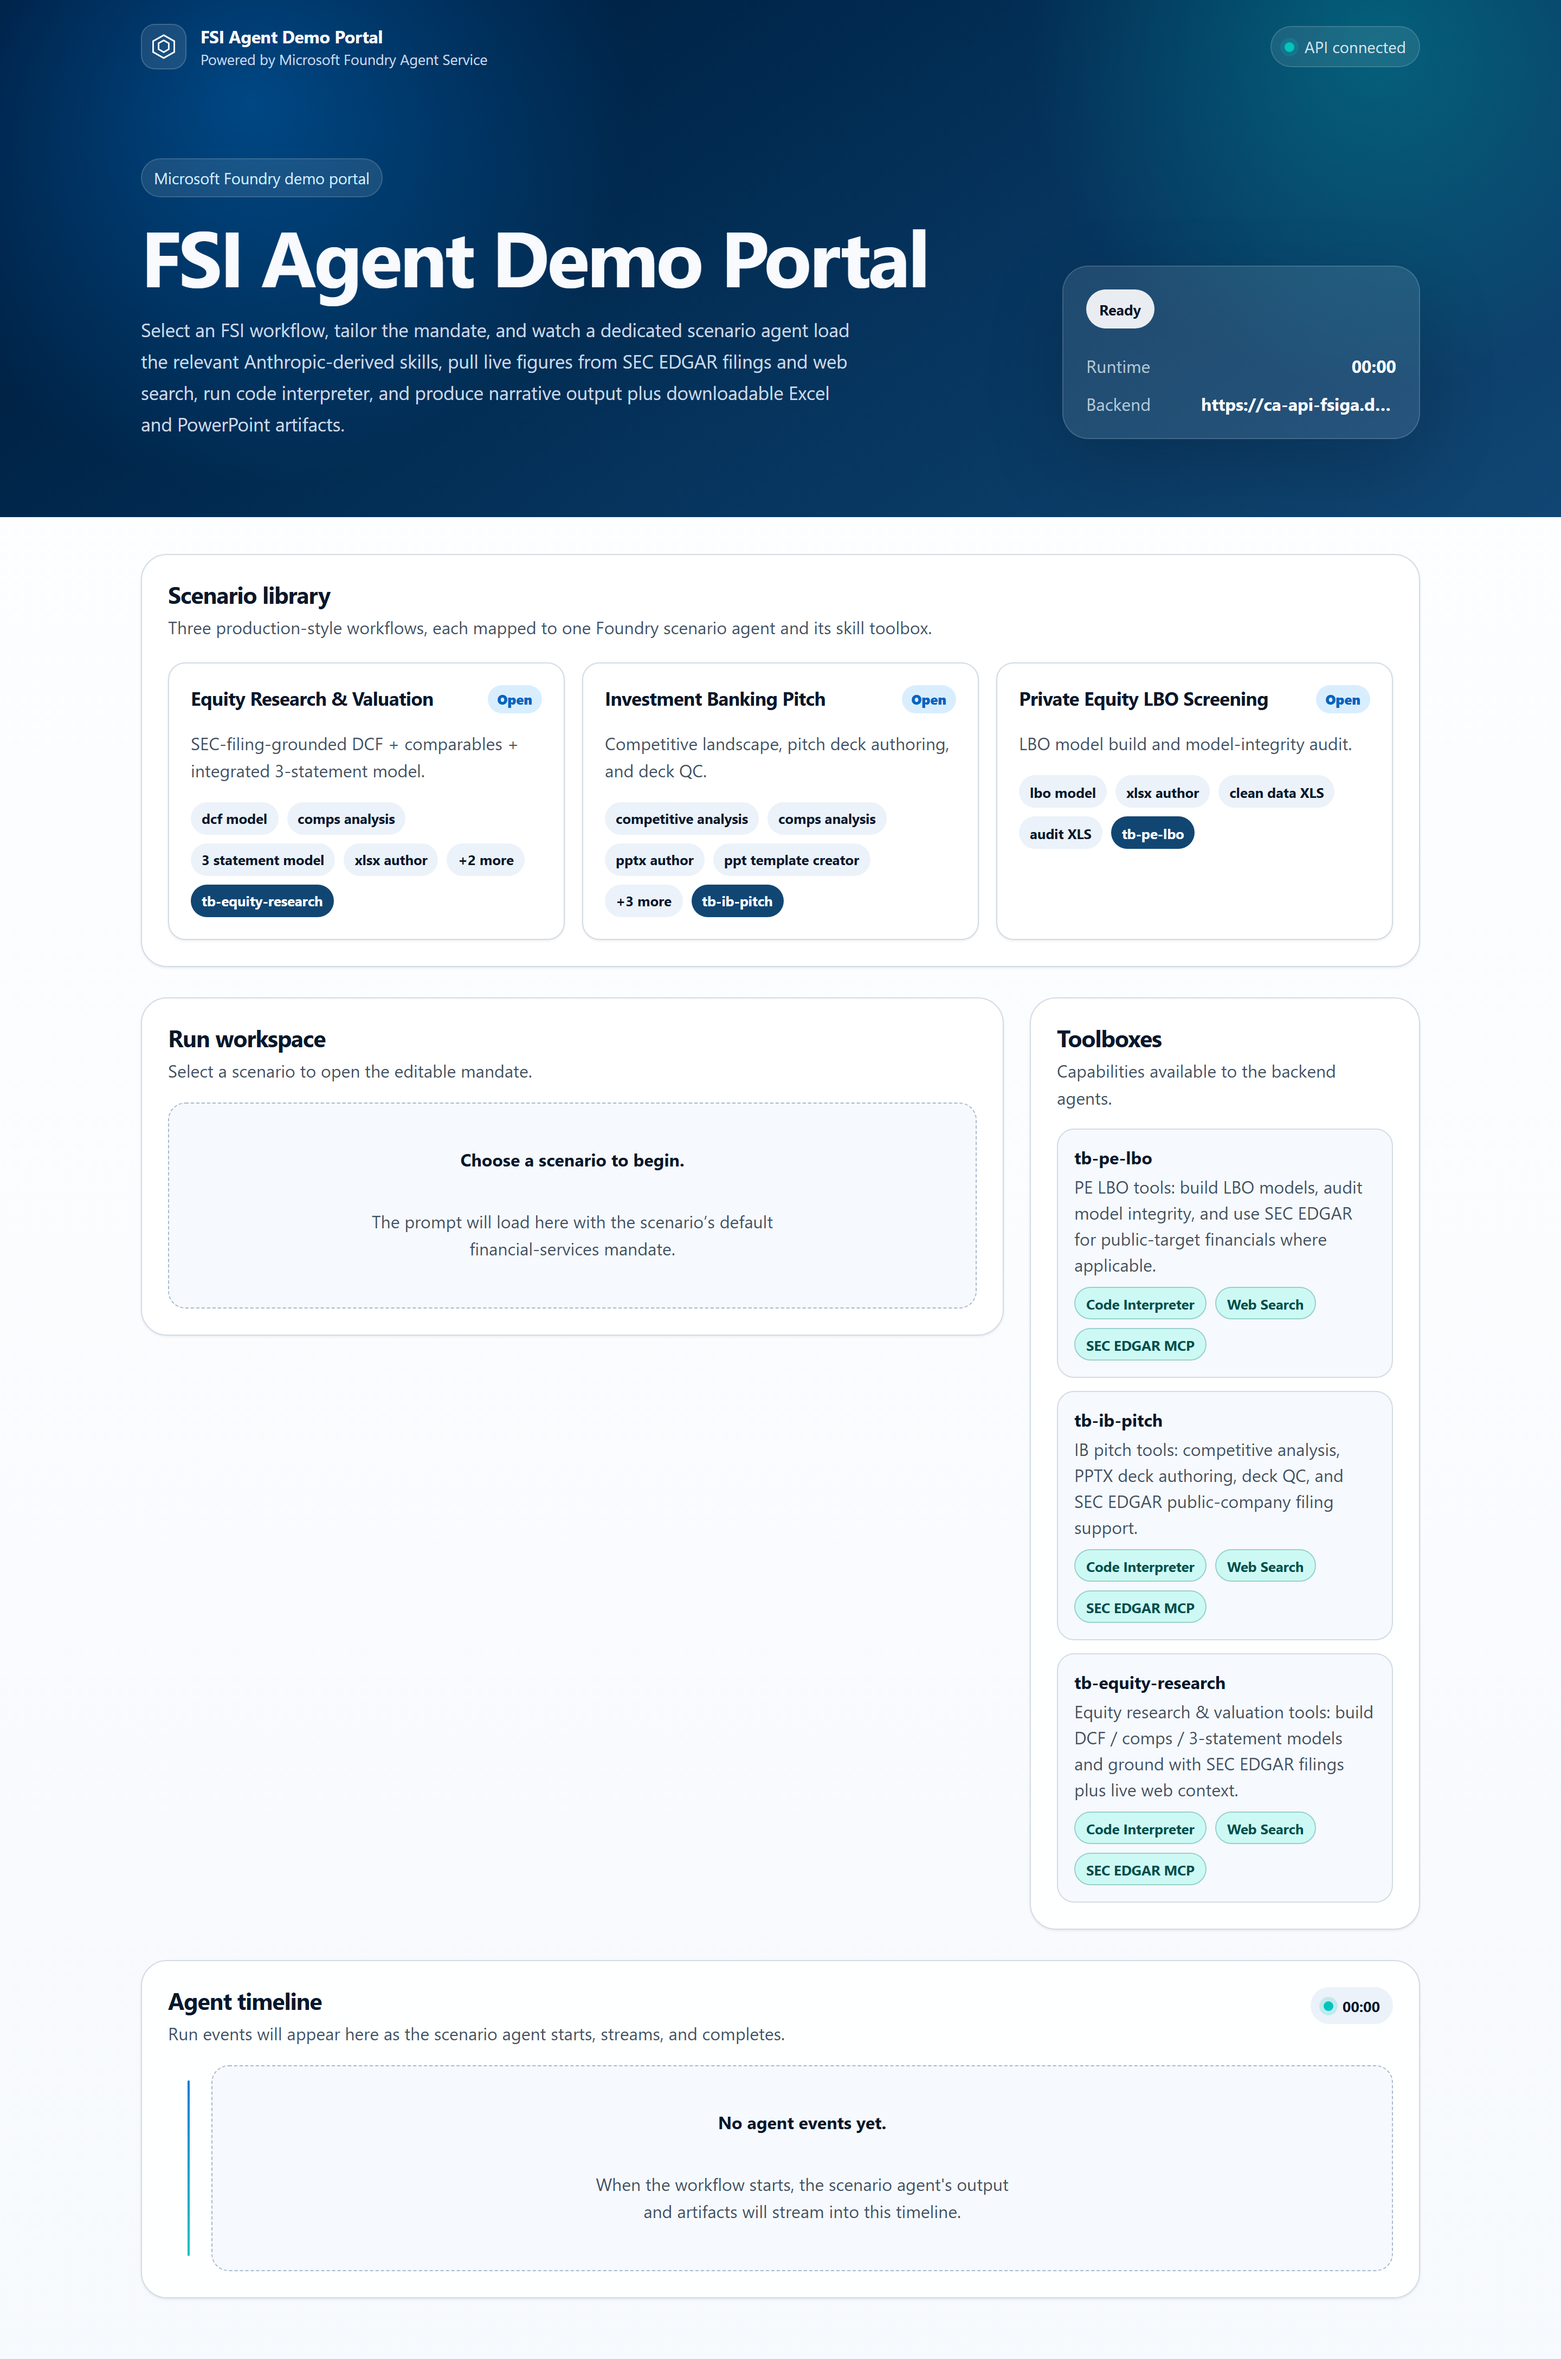
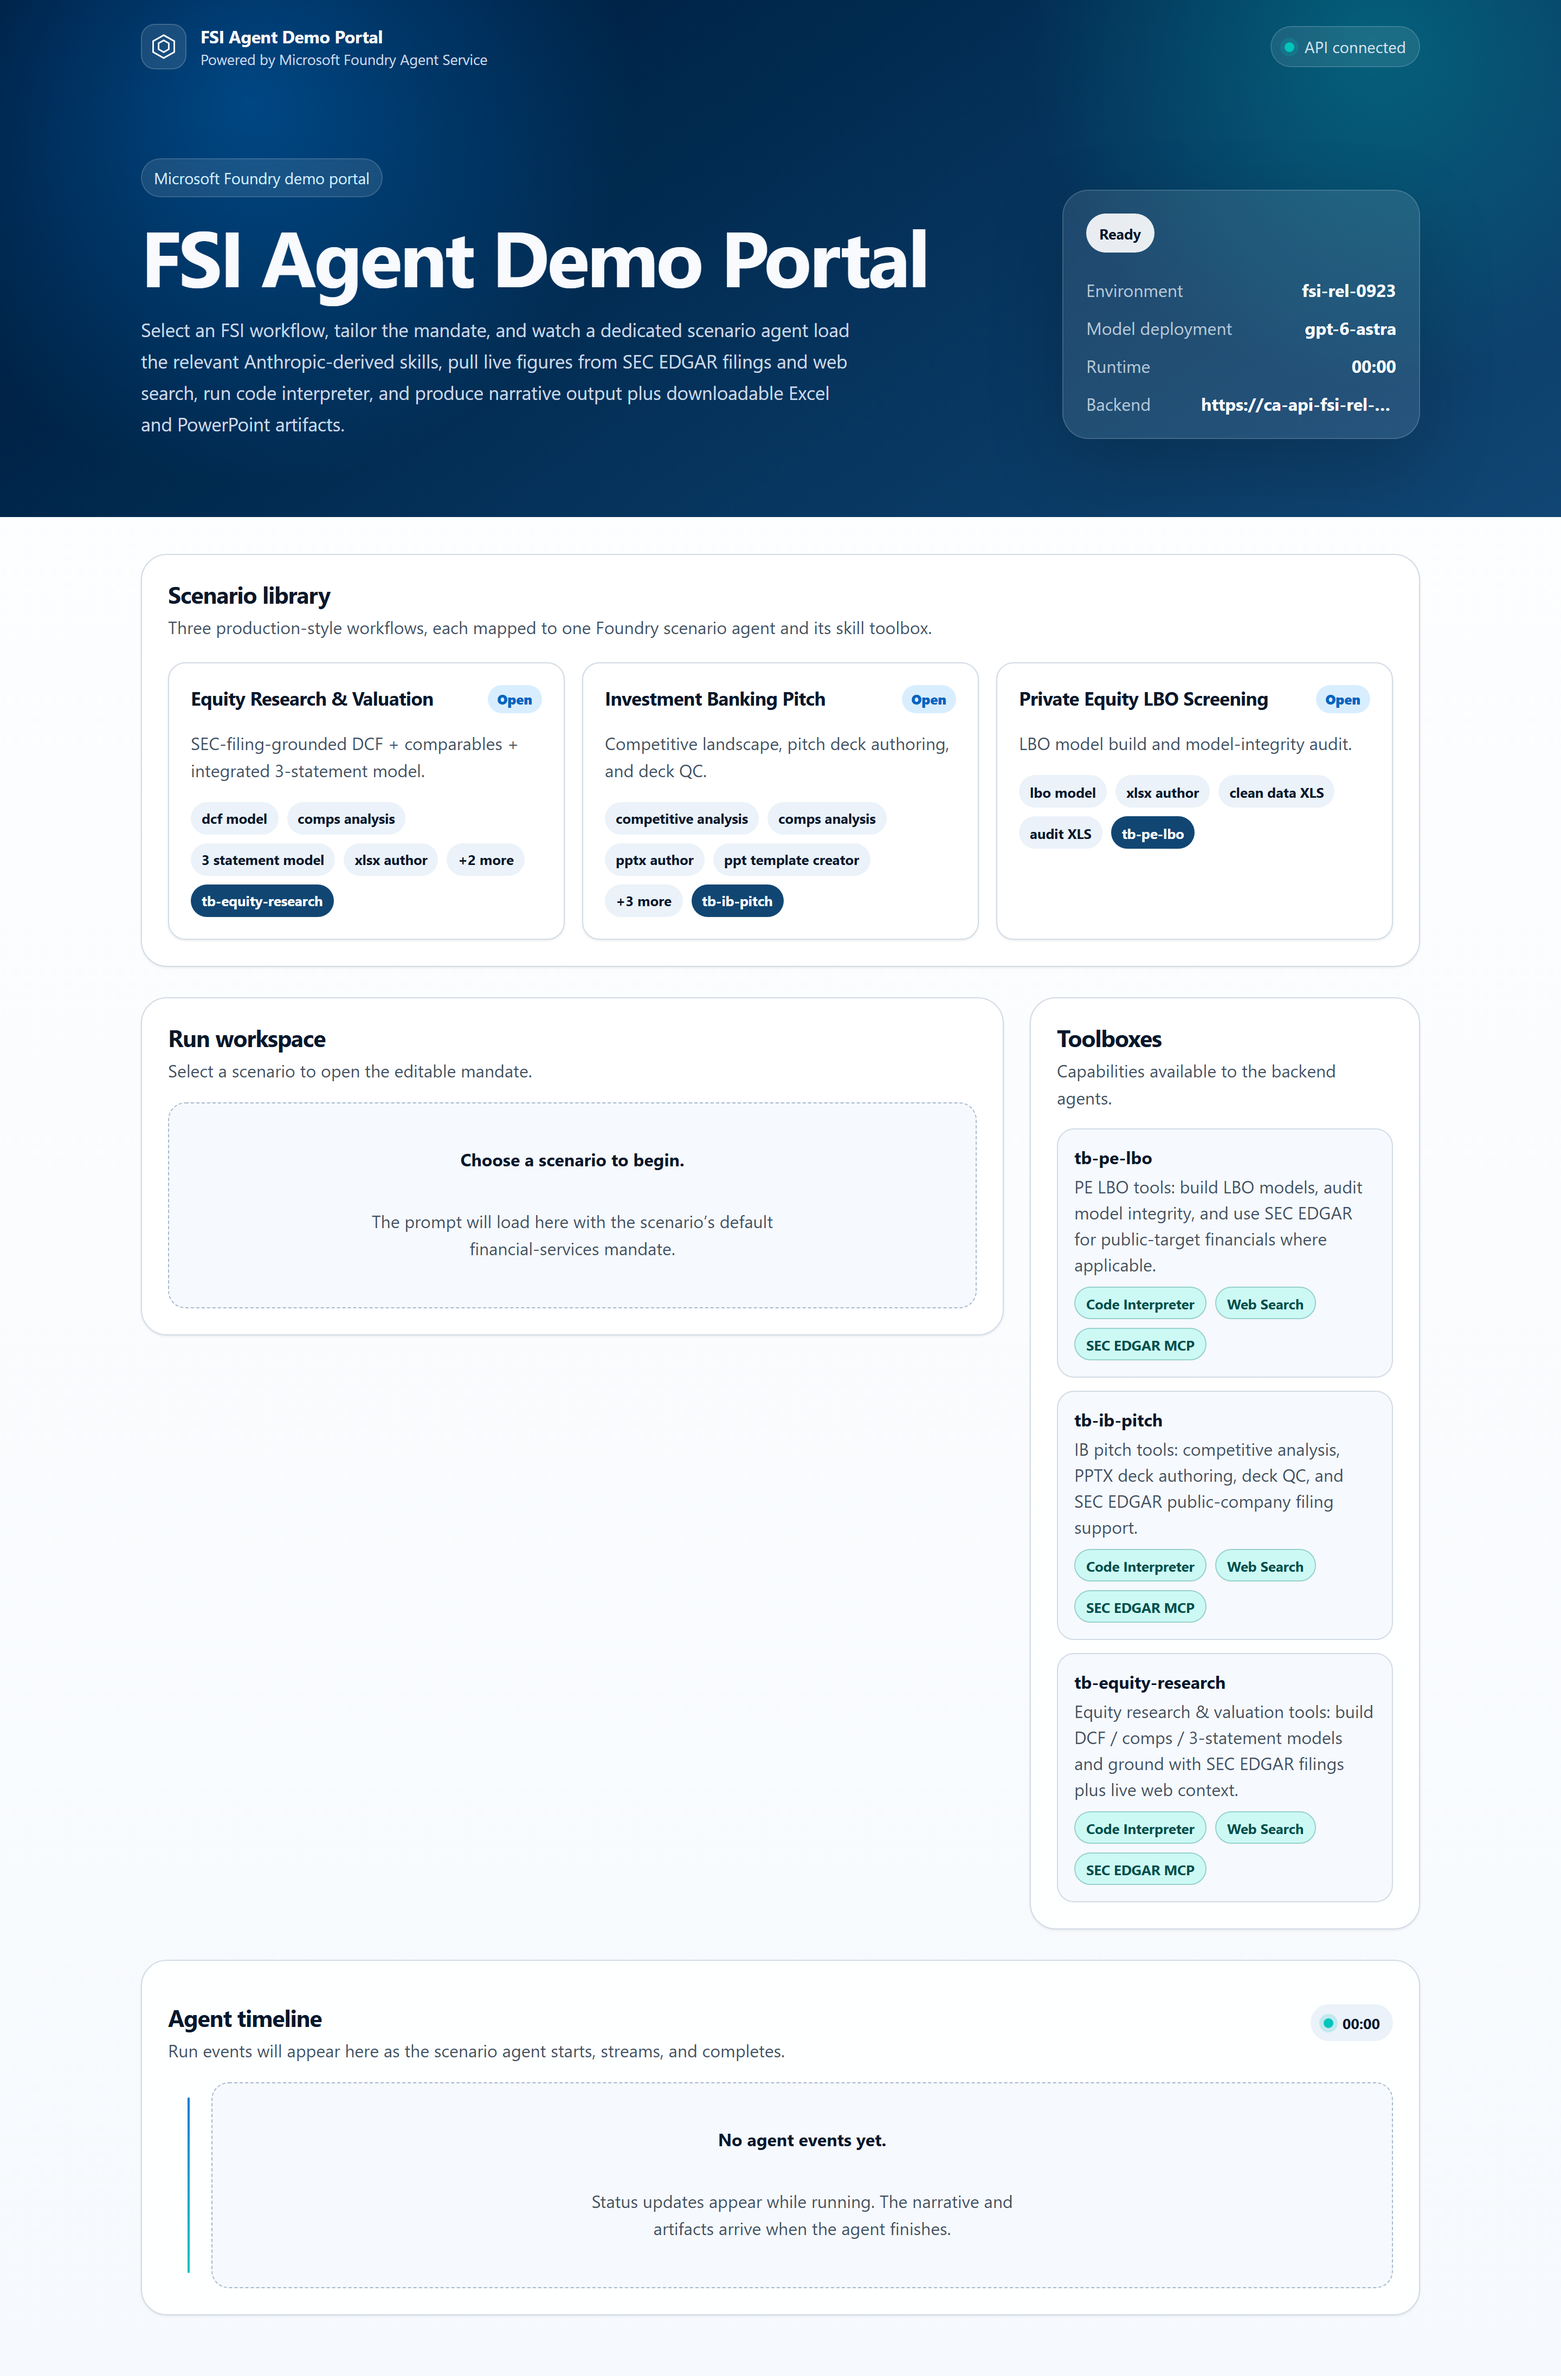
Refresh screenshots and record release validation
- Replace portal and artifact screenshots with captures from the clean-clone
  validation deployment, and add the PE LBO run.
- Capture: accept non-Office supporting files, require .pptx for IB pitch,
  fail if any request carries WebIQ data while the key is blank, and bind
  the Office renderer's arguments by name.
- Release notes and changelog: validation evidence, PowerShell 7 and
  RequestConflict notes, known limitations.
- Use a neutral fallback persona title in the hosted runtime.

diff --git a/agents/hosted/_azd/agent-src/fsi_hosted_agent.py b/agents/hosted/_azd/agent-src/fsi_hosted_agent.py
@@ -187,7 +187,7 @@ def _env_bool(name: str, default: bool = False) -> bool:
 
 
 def _system_prompt() -> str:
-    title = os.environ.get("FSI_SCENARIO_TITLE", "Financial Services Analyst")
+    title = os.environ.get("FSI_SCENARIO_TITLE", "Financial Services")
     brief = os.environ.get(
         "FSI_SCENARIO_BRIEF",
         "Produce traceable financial-analysis drafts with explicit source and modeling limitations.",

diff --git a/agents/hosted/fsi_hosted_agent.py b/agents/hosted/fsi_hosted_agent.py
@@ -187,7 +187,7 @@ def _env_bool(name: str, default: bool = False) -> bool:
 
 
 def _system_prompt() -> str:
-    title = os.environ.get("FSI_SCENARIO_TITLE", "Financial Services Analyst")
+    title = os.environ.get("FSI_SCENARIO_TITLE", "Financial Services")
     brief = os.environ.get(
         "FSI_SCENARIO_BRIEF",
         "Produce traceable financial-analysis drafts with explicit source and modeling limitations.",

diff --git a/docs/release-notes/v1.0.0.md b/docs/release-notes/v1.0.0.md
@@ -60,7 +60,7 @@ Foundry toolbox, behind a FastAPI BFF and a Next.js portal on Azure Container Ap
   - Bicep build
   - a check that the runtime mirror is in sync
 
-## Breaking change: model parameters are required
+## Breaking changes: model parameters and PowerShell 7 are required
 
 There is no built-in model default any more:
 
@@ -68,6 +68,9 @@ There is no built-in model default any more:
   defaults to `GlobalStandard` and `agentModelDeploymentName` defaults to `modelName`.
 - `deploy.ps1` requires `-ModelName`, `-ModelVersion` and `-ModelCapacity` unless you pass
   `-SkipInfra`. `-ModelDeploymentName` and `-ModelSku` are optional.
+- The deploy scripts now declare `#Requires -Version 7.0`, so run them with PowerShell 7+
+  (`pwsh`). Windows PowerShell 5.1 turns redirected native-command stderr into terminating
+  errors.
 
 ```powershell
 az cognitiveservices model list -l eastus2 `
@@ -103,7 +106,62 @@ deployment of the same model in the subscription counts against the same limit. 
 
 ## Validation evidence
 
-<!-- VALIDATION -->
+Validated on 2026-09-23 against a **fresh clone of the release branch** (no untracked files),
+deployed with PowerShell 7 into a new, isolated environment:
+
+```powershell
+.\deploy.ps1 -EnvName fsi-rel-0923 -Location eastus2 `
+  -ModelName gpt-6-astra -ModelVersion 2026-09-03 -ModelSku GlobalStandard -ModelCapacity 300 `
+  -DemoStoragePolicyOptOut -SecEdgarUserAgent "<name> <email>"
+```
+
+- **Local gates, also run by CI on the PR:**
+  - API: 30 tests
+  - SEC EDGAR MCP: 30 tests
+  - Hosted runtime contract and `agent-src` mirror: 8 tests
+  - Validator CORS: 9 tests
+  - Storage opt-out and azd env-mapping script tests pass
+  - Portal: 14 unit tests and 3 mocked-API Playwright browser tests
+  - Portal typecheck and `next build` pass
+  - `az bicep build` matches the committed `infra/main.json`
+  - All `.ps1` files parse
+- **One-command deploy completed end to end** (exit 0): infra, SEC EDGAR MCP, azd env mapping,
+  12 skills, the SEC connection, 3 toolboxes, 3 hosted agents, RBAC, storage and API/portal.
+  `/api/health` reported `environment_name=fsi-rel-0923` and
+  `model_deployment_name=gpt-6-astra`.
+- **`scripts/validate.py --portal-origin`**, run by `deploy.ps1`:
+  ```text
+  [PASS] browser GET /api/health: ingress permits the portal origin, method and request headers.
+  [PASS] browser POST /api/run: ingress permits the portal origin, method and request headers.
+  [PASS] equity-research (581s): MSFT_Valuation_Package_2026-09-23.xlsx (113366 bytes, valid OOXML)
+  [PASS] ib-pitch (318s): Microsoft_IB_Pitch.pptx (59165 bytes, valid OOXML)
+  [PASS] pe-lbo (395s): MSFT_Illustrative_LBO_Audited.xlsx (45650 bytes, valid OOXML)
+  === 3/3 scenarios passed ===
+  ```
+- **Headless browser pass of the deployed portal**
+  (`scripts/capture_screenshots.ps1 -Scenarios equity-research,ib-pitch,pe-lbo`) with the WebIQ
+  key left blank:
+  - Each scenario reached **Complete**.
+  - Every Office download was valid OOXML: 2 `.pptx` and 3 `.xlsx`, plus one JSON checks log.
+  - No request carried a WebIQ key or query.
+  - The README screenshots come from this pass.
+- **Re-provisioning is non-destructive:** re-running `scripts/provision_foundry.ps1` updated an
+  existing skill in place (`[OK] skill xlsx-author (update)`) and republished all three
+  toolboxes with SEC EDGAR bound.
+- **Second `validate.py --portal-origin` pass after re-provisioning:** 3/3 passed. Equity
+  research produced `MSFT_Valuation_2026-09-23.xlsx` (537 s), IB pitch
+  `MSFT_Competitive_Pitch.pptx` (294 s) and PE LBO `MSFT_Illustrative_LBO.xlsx` (350 s), all
+  valid OOXML.
+- **WebIQ was not exercised live** because no WebIQ key was available for validation. It is
+  covered by API unit/integration tests (header-only key, explicit-query gating, failure and
+  empty-result paths, redaction) and by mocked-API browser tests.
+- **Found and fixed during validation:**
+  - Windows PowerShell 5.1 aborted on azd's stderr notice, so the scripts now require
+    PowerShell 7.
+  - A `RequestConflict` race between the Foundry project and the model deployment on a new
+    account; the model deployment is now serialized after the project.
+  - The screenshot capture now accepts non-Office supporting files and passes named arguments
+    to the Office renderer.
 
 ## Known limitations
 
@@ -123,5 +181,9 @@ deployment of the same model in the subscription counts against the same limit. 
   modified image.
 - **Framework instrumentation is disabled** in the hosted runtime to avoid a known span-attribute
   serialization bug.
+- **Model-authored wording is not verified.** The instructions forbid claiming approval or an
+  independent review, but the model still chooses file names and labels. For example, one PE LBO
+  validation run named its workbook `..._Audited.xlsx`. Treat every artifact as an unreviewed
+  draft.
 - Output quality depends on the chosen model, the public data available, and the pinned upstream
   skill revision (`-SkillsRef`).

diff --git a/README.md b/README.md
@@ -54,25 +54,30 @@ to build the Office artifacts.*
 ![Completed Equity Research run showing the live activity feed, narrative with SEC filing URLs, and the workbook download button](docs/images/portal-run-equity-research.png)
 
 *A completed **Equity Research** run. The live activity feed shows the agent loading
-governed skills and calling toolbox-routed tools (`sec-edgar___get_company_info`,
-`sec-edgar___get_recent_filings`, `sec-edgar___get_key_metrics`, `web`) and the code
-interpreter; the narrative cites **real SEC filing URLs**; and the finished workbook is
-offered as a **download button** (`MSFT_valuation_package_*.xlsx`).*
+governed skills and calling the toolbox's Tool Search meta-tools (`tool_search`, then
+`call_tool`) to reach SEC EDGAR, including the normalized financial fact pack, and web search.
+The narrative states which inputs stayed unresolved, and the finished workbook, deck and checks
+log are offered as **download buttons**.*
+
+![Completed PE LBO run with the workflow badge at Complete and the workbook download button](docs/images/portal-run-pe-lbo.png)
+
+*A completed **PE LBO Screening** run. The workflow badge reports Complete, Partial result or
+Attention needed, so a narrative-only fallback is never shown as a full success.*
 
 ### Generated artifacts
 
-![Excel DCF workbook: MSFT base/bull/bear cases, WACC, and SEC-sourced market data](docs/images/artifact-equity-dcf.png)
+![Excel valuation workbook summary: MSFT bear/base/bull DCF cases, WACC and terminal-growth assumptions, with unresolved inputs flagged](docs/images/artifact-equity-dcf.png)
 
-*Equity Research → `.xlsx`: a base/bull/bear DCF with WACC and SEC-sourced market data
-(share price, shares outstanding, cash, debt), authored in the code interpreter from the
-Anthropic `dcf-model` + `xlsx-author` skills.*
+*Equity Research → `.xlsx`: the summary sheet of a valuation package (bear/base/bull DCF, WACC,
+comps, sources and checks sheets) authored in the code interpreter from the Anthropic
+`dcf-model` + `xlsx-author` skills. Inputs that could not be sourced, such as live quotes, stay
+flagged as unresolved rather than invented.*
 
-![PowerPoint competitive-positioning slide: MSFT vs GOOGL, ORCL, CRM, ADBE, NOW on scale vs platform breadth](docs/images/artifact-ib-pitch-slide.png)
+![PowerPoint slide: Microsoft FY2026 revenue, operating income, net income, cash generation and capital structure, sourced to the 10-K](docs/images/artifact-ib-pitch-slide.png)
 
-*Investment Banking → `.pptx`: a competitive-positioning slide (scale vs. platform
-breadth) from the `competitive-analysis` + `pptx-author` skills, with repo-local styling and
-QC overlays to keep the exported deck readable in both PowerPoint and flattened PNG form. The
-IB run also emits a supporting `.pptx` deck and `.xlsx` model as download buttons.*
+*Investment Banking → `.pptx`: a financial-profile slide from the pitch deck, built with the
+`competitive-analysis` + `pptx-author` skills and repo-local styling overlays, with figures
+sourced to the latest 10-K. The IB run can also emit a supporting `.xlsx` workbook.*
 
 ## Quickstart
 

diff --git a/CHANGELOG.md b/CHANGELOG.md
@@ -18,6 +18,8 @@ Full notes: [docs/release-notes/v1.0.0.md](docs/release-notes/v1.0.0.md).
   defaults to `modelName`), and `deploy.ps1` requires `-ModelName`, `-ModelVersion` and
   `-ModelCapacity`. There is no hardcoded model default. Suggested: `gpt-6-astra` `2026-09-03`
   GlobalStandard.
+- **PowerShell 7+ is required** for `deploy.ps1` and the `scripts/*.ps1` deploy helpers
+  (`#Requires -Version 7.0`).
 
 ### Added
 
@@ -55,3 +57,10 @@ Full notes: [docs/release-notes/v1.0.0.md](docs/release-notes/v1.0.0.md).
   characters no longer exceed the 24-character Key Vault limit. Names of 12 characters or fewer
   are unchanged.
 - Portal dependencies updated (Next.js 15.5, React 19).
+
+### Fixed
+
+- A clean deploy could fail with `RequestConflict` because the Foundry project and the model
+  deployment were written concurrently; the model deployment now waits for the project.
+- Screenshot capture accepts non-Office supporting files and binds the Office renderer's
+  arguments by name.

diff --git a/scripts/screenshots/README.md b/scripts/screenshots/README.md
@@ -23,7 +23,8 @@ Raw downloaded Office files land in `docs/images/_artifacts/` and are **gitignor
 only the rendered PNGs are committed.
 
 The capture fails fast if a scenario only returns a fallback `*_agent_summary.*` file or
-misses an expected default artifact type (for IB pitch: both `.pptx` and `.xlsx`).
+misses an expected default artifact type (`.xlsx` for equity research and PE LBO, `.pptx`
+for IB pitch; supporting workbooks from IB pitch are captured when present).
 
 ## Prerequisites
 
